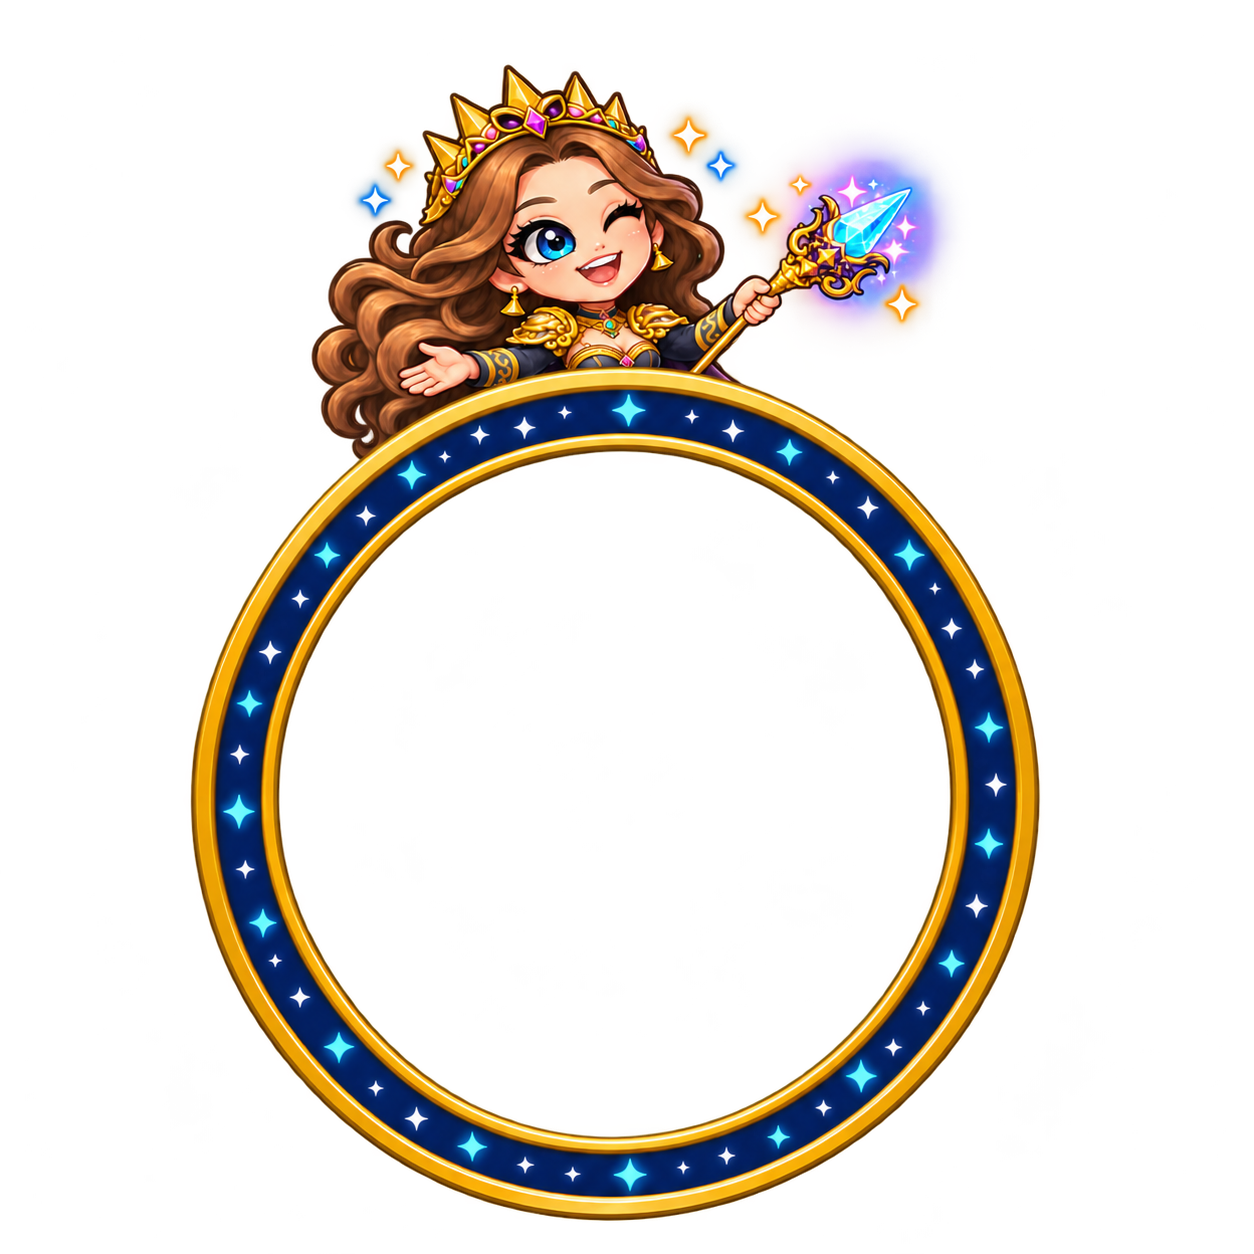
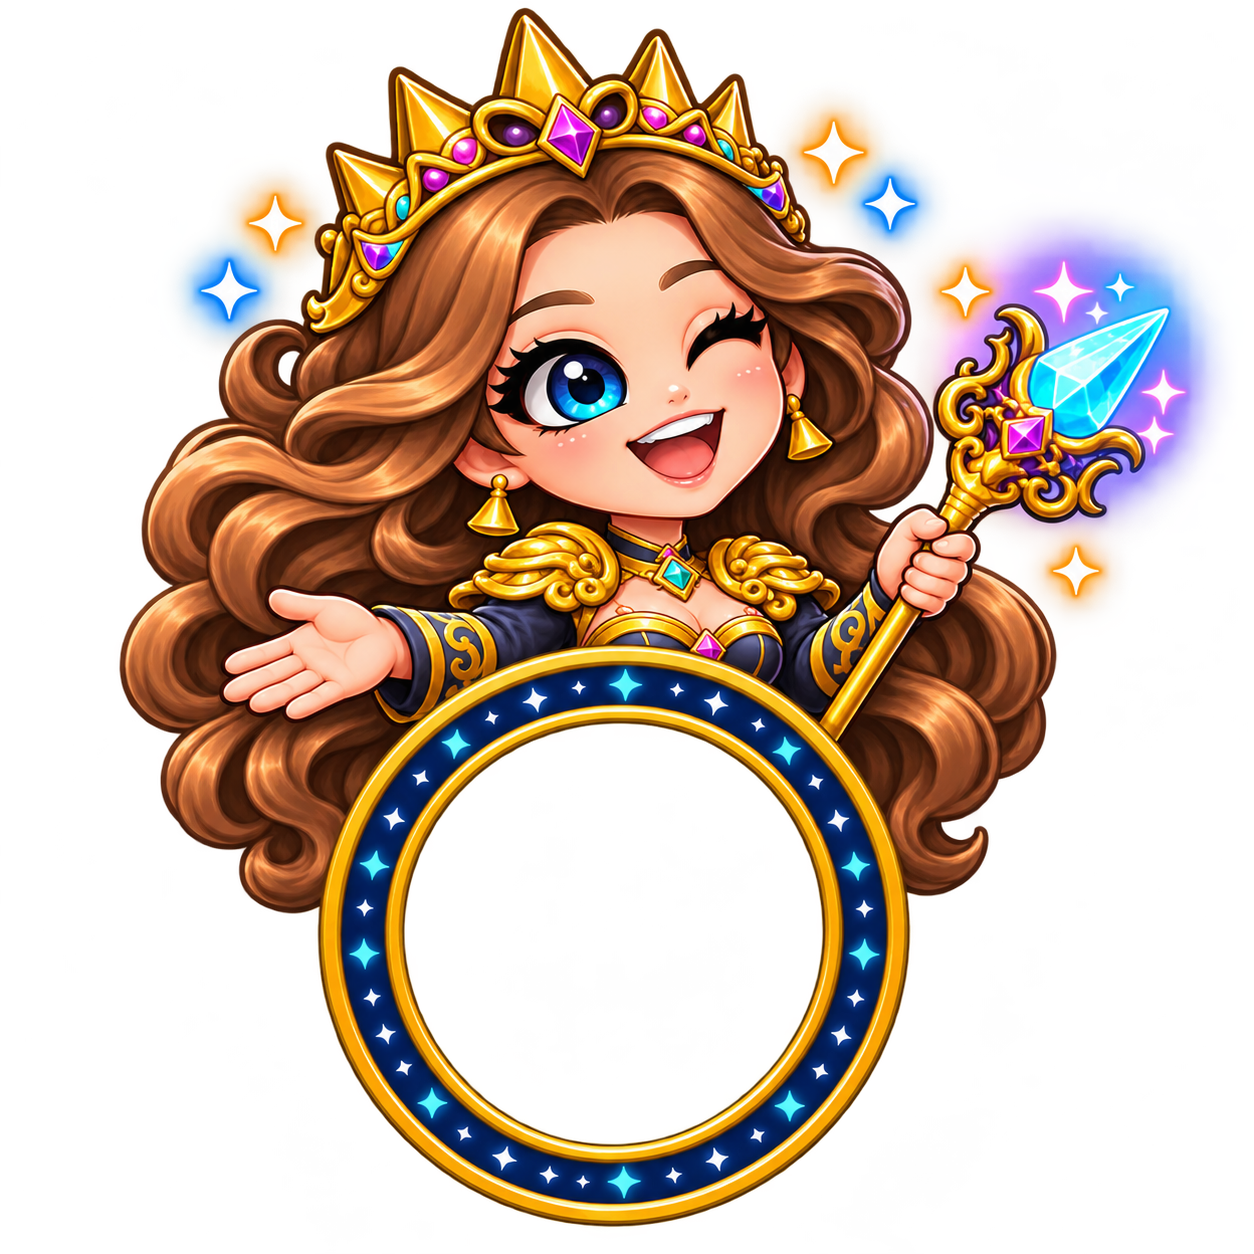
Make Goddess prominent with a smaller loading ring (0.5.1.428)

diff --git a/src/WorkIndicator.cs b/src/WorkIndicator.cs
@@ -122,8 +122,8 @@ public sealed partial class Plugin
             }
             var draw=ImGui.GetWindowDrawList();var style=Math.Clamp(config.WorkIndicatorStyle,0,2);
             // Match the blue track in goddess-loading.png; its frame is slightly elliptical.
-            var center=top+(style==0?new Vector2(.4906f,.6336f):new Vector2(.515f,.63f))*size;
-            var radii=(style==0?new Vector2(.3007f,.3040f):new Vector2(.285f))*size;
+            var center=top+(style==0?new Vector2(.4892f,.7445f):new Vector2(.515f,.63f))*size;
+            var radii=(style==0?new Vector2(.2013f,.1994f):new Vector2(.285f))*size;
             var radius=MathF.Min(radii.X,radii.Y);
             if(style<2){
                 var file=style==0?"goddess-loading.png":"goddess-complete.png";

diff --git a/docs/goddess-loading-428.md b/docs/goddess-loading-428.md
@@ -1,0 +1,3 @@
+# Companion 0.5.1.428
+
+Make Goddess larger and reduce the starry ring diameter by roughly one third. Keep Goddess behind the gold rim. Refit the animated streak and progress counter to the smaller ring; activity tracking and cancellation remain unchanged.
